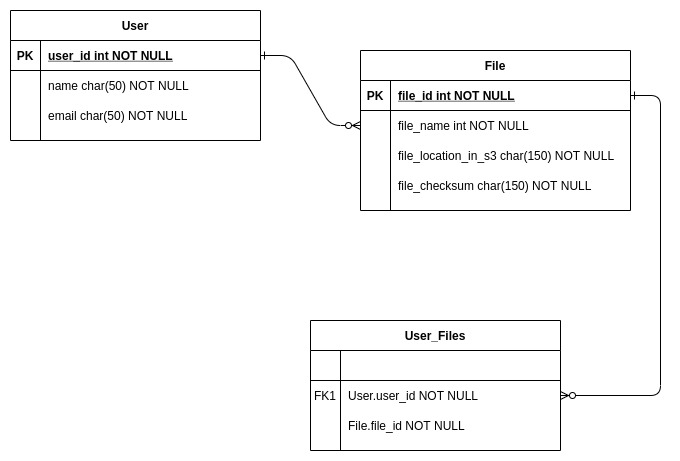
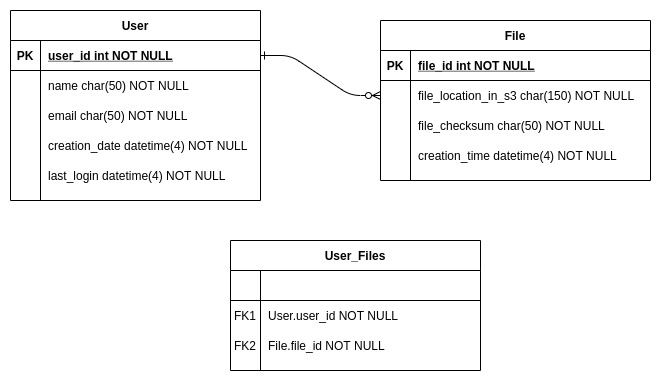
Updated architecture with security, upload/download flow, Updated ER and added code for download and listing files

diff --git a/views/api.py b/views/api.py
@@ -1,6 +1,8 @@
 import os
-from flask import Flask, flash, request, redirect, url_for, Blueprint
+from flask import (Flask, flash, request, redirect, 
+                  url_for, Blueprint, send_from_directory, jsonify)
 from werkzeug.utils import secure_filename
+from util.func_util import log_api
 
 ALLOWED_EXTENSIONS = {'txt', 'pdf', 'png', 'jpg', 'jpeg', 'gif', 'MOV', 'zip', 'jar'}
 UPLOAD_FOLDER = '/tmp/uploader/uploads/'
@@ -11,11 +13,9 @@ def allowed_file(filename):
     return '.' in filename and \
            filename.rsplit('.', 1)[1].lower() in ALLOWED_EXTENSIONS
 
-@api.route('/ping', methods=['GET'])
-def ping():
-    return 'Pong'
 
 @api.route('/upload', methods=['GET', 'POST'])
+@log_api
 def upload_file():
     if request.method == 'POST':
         # check if the post request has the file part
@@ -33,12 +33,22 @@ def upload_file():
             file.save(os.path.join(UPLOAD_FOLDER, filename))
             return f'Successful uploading {filename}'
 
-    return '''
-    <!doctype html>
-    <title>Upload new File</title>
-    <h1>Upload new File</h1>
-    <form method=post enctype=multipart/form-data>
-      <input type=file name=file>
-      <input type=submit value=Upload>
-    </form>
-    '''
+    return 'Could not upload file'
+
+@api.route("/files", methods=['GET'])
+@log_api
+def list_files():
+    """Endpoint to list files on the server."""
+    files = []
+    for filename in os.listdir(UPLOAD_FOLDER):
+        path = os.path.join(UPLOAD_FOLDER, filename)
+        if os.path.isfile(path):
+            files.append(filename)
+    return jsonify(files)
+
+
+@api.route("/download/<path:path>")
+@log_api
+def download_file(path):
+    """Download a file."""
+    return send_from_directory(UPLOAD_FOLDER, path)

diff --git a/util/func_util.py b/util/func_util.py
@@ -1,0 +1,10 @@
+def log_api(function):
+    def log_function(*args, **kwargs):
+        #Get the bearer token from the request posted and validate
+        #with Amazon Cognito
+        print(f'*****User invoked the {function.__name__} function*****')
+        return function(*args, **kwargs)
+    
+    # Renaming the function name:
+    log_function.__name__ = function.__name__
+    return log_function

diff --git a/db/es.py b/db/es.py
@@ -1,0 +1,8 @@
+from elasticsearch import Elasticsearch
+
+es = Elasticsearch([{'host': 'localhost', 'port': 9200}])
+index = 'upload_service_index'
+
+def insert_file_metadata(data, index_=index):
+  es.index(index_, doc_type='docs', body=data)
+    

diff --git a/README.md b/README.md
@@ -1,37 +1,177 @@
-# upload_download_service
+# Upload/Download Service
 
-REST based file upload/download service
+Problem statement : A new microservice needs to be designed which handles all file uploads
+(imports) and downloads (exports). The APIs exposed by this service will be consumed by the
+browser-based and native applications of the platform to provide this functionality. The service
+should be hosted on the cloud and should be a secured endpoint. It should seamlessly scale
+upto a max concurrency of 1000 simultaneous uploads / downloads to begin with. The solution
+should be future proof and adding more capacity should be simple. The SLI for this service
+should be:
 
-## Upload Workflow
-1. User uploads a file from the app or the browser. 
-2. The front end application - android, ios, or js, will generate an MD5 hash of the file, and the file will be streamed on the wire
-3. The upload service, will download the file, to its local drive, and compute the checksum, and if the input checksum and the computed checksum match, an upload success is sent back to the client, else the client will need to retry upload.
+<i>Latency to upload / download <= 4 seconds for 5 MB of file size for 95pc of customers (last mile
+bandwidth being a limiting factor on the user’s side, we can assume a steady state good
+connectivity on the last mile).</i>
 
-## Download Workflow
-
+## Tech Stack
+* Python - Flask + Blueprint APIs
+* Gunicorn - WSGI Server
+* DB - ElasticSearch for metadata, Redis Cache
+* AWS S3 for file storage
+* AWS EC2 for hosting webserver
+* Route 53, Application Load Balancer
 
 ## Architecture
-The architecture uses a load balancer to distribute load across upload/download workers which are geographically distributed EC2 instances running the service.
+Architecture uses Route 53 to route the requests across regions.
 
-We could use a multi-level load balancer, to route majority of the traffic to the US region, when requests are made from the US region, and the remaining traffic to closest region.
+Every region is catered to by a set of AZs sitting behind a Load Balancer. The LB, routes the requests to appropriate AZ, depending on proxmity of the request, latency and the existing load on the AZ. 
 
-While this architecture, definitely improves availability and reliability of the service, but during the times when there is a surge of traffic, and all the workers are busy servicing the requests, there is no way to dynamically add more workers to cater to the surge.
+Once routed into the AZ, request served by EC2 instances which are managed by an auto-scaling group. This is used to scale out, when there is a surge in number of requests (time based), and scale down when the demand is low.
 
-This is where AutoScaling groups may help out.
+Service is split to handle uploads and downloads in separate nodes. The reason being the following..
 
-![upload_download_service](architecture/service_architecture.jpg?raw=true)
+* Uploads have to go through disk writes, which are going to be slower, than reads which may be served from the cache
+* A node can handle only limited number of connections, and if the nodes are busy serving up writes, the reads which can happen concurrently and very quickly will get unnecessary blocked
+* Its easier to scale out or down reads and writes independently, depending on demand
+
+![upload_download_service](architecture/service_architecture2.jpg?raw=true)
+
+## Storage and RPS calculations
+
+### File Storage Requirements
+```
+Assumptions :
+
+Requests per month : 10M 
+50% split of reads/writes
+Average File size : 5MB
+Long term storage requirement : 10 years
+
+File storage required : 5M * 5MB * 12 months * 10 years = 3000 TB
+```
+
+### Bandwidth requirements
+```
+Requests per month : 10M 
+Average File size : 5MB
+
+RPS : 10M/(30*24*60*60) = ~0.5 RPS
+Bandwidth : 0.5 * 5MB = ~2.5MBps for both uploads and downloads
+
+Sometimes a burst of 1000 requests to be accommodated.. in such case the bandwidth required would be : 1000 * 5MB = 5 GBPS
+```
+
+
+### Model
+![upload_download_service](architecture/sql_er_diagram.jpg?raw=true)
+
+### DB Storage Requirements
+
+```
+Assumptions :
+
+Number of Users : 10 M
+Number of active users per month : 1 M
+Average number of files/user : 500
+
+Size of user table : ~100 bytes * 10M  = ~1GB
+Size of file table : ~200 bytes * 10M * 500  = ~ 1TB
+
+```
+
+Can use either a NoSql or SQL db, and shard by User_ID.
+
+
+## APIs
+1. Upload file - This api allows upload of a file from the client application or web browser.
+
+```
+URL : /upload_download_service/upload
+
+Method : POST
+
+Data Params :
+Payload containing the key 'file' and value as the byte stream
+
+Success Response:
+Code : 200
+Content : { 'name' : <filename> }
+
+Error Response:
+Code : 403
+Content : { 'error' : "client credentials invalid" }
+
+or 
+
+Error Response:
+Code : 409
+Content : { 'error' : "checksum failed - please attempt reuploading" }
+
+or
+
+Error Response:
+Code : 413
+Content:  { 'error' : "Document file size is too large" }
+
+```
+
+
+2. Download file - This api allows user to select a file for download
+
+```
+URL : /upload_download_service/<fname>/<uid> 
+
+Method : GET
+
+URL Params :
+Name of the file and the user_id
+
+Success Response:
+Code : 200
+Content : { 'name' : <filename> }
+
+Error Response:
+Code : 403
+Content : { 'error' : "client credentials invalid" }
+
+```
+
+## Upload flow
+![upload_download_service](architecture/upload_flow.jpg?raw=true)
+
+1. User uploads a file from the app or the browser. 
+2. The front end application - android, ios, or js, will generate an MD5 hash of the file, and the file will be streamed on the wire
+3. The upload service will compute  the file's checksum, and if the input checksum and the computed checksum match, an upload success is sent back to the client, else the client will need to retry upload.
+4. If successfully uploaded, the service, makes an entry for the file in the ```File``` table, and then push the content to S3
+
+## Download flow
+![upload_download_service](architecture/download_flow.jpg?raw=true)
+
+1. User sees a list of files uploaded, when he logs in 
+2. User selects the file for download
+3. Back end will check if the file is available in the cache, if yes, then the file is served from the cache
+4. If file is not present in the cache, the service, fetches the metadata from DB, gets the file from S3 and updates the cache, and returns the file
+
+
+## API security
+![upload_download_service](architecture/api_security.jpg?raw=true)
+
 
 <i>Other considerations :</i>
 
 * How will SQL db scale - for say about a 100M requests per month? Is sharding required here?
+Yes sharding on User ID may help here, and with that we could switch over to a NoSql db - need to check how to draw the ER diagram for a NoSql db.
+
 * We may need to consider replication of S3 buckets to cater to performance
 * Is there a need to perform caching?
+Yeah, this will definitely help with downloads, where, a server could hit the cache, before it turns to the db or s3. That will enormously help with performance. 
+Need to add cache layer to the architecture.
+* Add information about Autoscaling Groups and think what can be done better.
+* Logging - logging access information - who accessed which doc, how much time for upload, number of attempts, errors.
+* You cannot set up ELBs across regions. You will need route 53 to do cross region requests.
 
-## Storage and RPS calculations
 
-## Model
-![upload_download_service](architecture/sql_er_diagram.jpg?raw=true)
-
+Further reading:
+https://aws.amazon.com/blogs/architecture/scale-your-web-application-one-step-at-a-time/
 
 
 Steps to deploy on AWS
